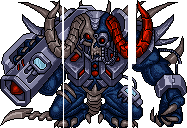
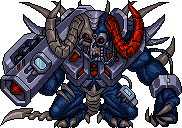
Align False God parts toward center seam (fix tiling gaps)
The 6 battle-sprite frames are bbox-trimmed to varying sizes, so
center-aligning every part left seams. Align each toward the composite
center instead: col 1/4 right, 2/5 center, 3/6 left; top row bottom-
aligned, bottom row top-aligned — so all six butt together into one
creature. Regenerated assets/falsegods/*.png.

Claude-Session: https://claude.ai/code/session_01SgyHVNkjRV8hwTTpyTfDPv

diff --git a/tools/build_falsegods.py b/tools/build_falsegods.py
@@ -50,8 +50,14 @@ def build(key, frames):
     canvas = Image.new("RGBA", (CELL * COLS, CELL * ROWS), (0, 0, 0, 0))
     for idx, im in enumerate(imgs):
         r, c = divmod(idx, COLS)                 # reading order: 0,1,2 / 3,4,5
-        x = c * CELL + (CELL - im.width) // 2     # center in cell
-        y = r * CELL + (CELL - im.height)         # baseline-align to cell bottom
+        # The frames are bbox-trimmed, so each part must align toward the composite's
+        # CENTER (where the 3x2 cells meet) for the seams to join into one creature:
+        #   col 0 (parts 1,4) right-aligned · col 1 (2,5) centered · col 2 (3,6) left-aligned
+        #   row 0 (top) bottom-aligned · row 1 (bottom) top-aligned
+        if c == 0:   x = c * CELL + (CELL - im.width)      # right edge of cell
+        elif c == 1: x = c * CELL + (CELL - im.width) // 2  # centered
+        else:        x = c * CELL                           # left edge of cell
+        y = r * CELL + (CELL - im.height) if r == 0 else r * CELL
         canvas.alpha_composite(im, (x, y))
     bbox = canvas.getbbox()                        # trim outer transparency
     if bbox:
